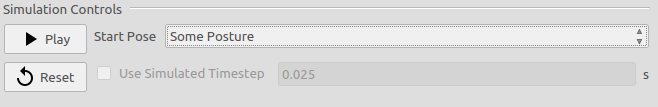
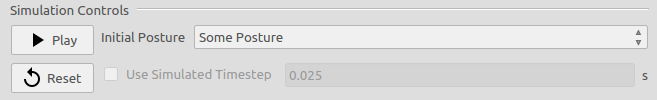
:memo: Documentation of sorts

diff --git a/README.md b/README.md
@@ -1,0 +1,50 @@
+# Giskard IDE
+
+This repository contains an RVIZ panel that aims to aid the development and testing of [giskard](https://github.com/SemRoCo/giskard_core) motion controllers.
+
+## Using the panel
+
+![Image of the RVIZ panel](https://github.com/ARoefer/giskard_ide/blob/master/docs/img/simpanel.png "Giskard IDE Panel")
+
+### Scenarios
+
+![Image of the scenario tab](https://github.com/ARoefer/giskard_ide/blob/master/docs/img/scenario-tab.png "Scenario Tab")
+
+The workspaces of the IDE are organized in *scenarios*. The scenario tab allows the user to select a name and a location for the current environment to be saved to, or load a scenario from a file. Also a URDF file can be specified, which is automatically loaded and displayed when the scenario is loaded. When the RVIZ view configuration is saved, the scenario is also automatically saved. This is done either to the specified file, or in the *~/.rviz/* folder.
+The scenario tab also displays the current topics used for receiving updates about the robot state and 
+
+### Postures
+
+![Image of the posture tab](https://github.com/ARoefer/giskard_ide/blob/master/docs/img/posture-tab.png "Posture Tab")
+
+Scenarios can contain postures for the robot. These are displayed in the posture tab. These postures can be used as starting point for the execution of controllers.
+The tab contains options for adding the robot's current posture to the library, adding an empty posture, to set apply the selected posture to the robot, or to remove it from the library. When adding the current posture of the robot, only the joints controlled by the current controller are included.
+On the right hand side of the panel, the postures are listed and can be edited manually. However this is limited [Issue #1](https://github.com/ARoefer/giskard_ide/issues/1)
+
+### Controllers
+
+![Image of the controller tab](https://github.com/ARoefer/giskard_ide/blob/master/docs/img/controller-tab.png "Controller Tab")
+
+The controller tab allows the user to select a controller to be used in the scenario. The tab displays the joints being controlled by the loaded controller, as well as an assignment for it's other inputs. The assignments can currently be either constant or dynamic. The dynamic versions are currently always positions, rotations or transforms of TF-frames. More options are planned: [Issue #3](https://github.com/ARoefer/giskard_ide/issues/3)
+As this tab can currently not make any changes to the controller, the save button is without function.
+
+### Scenes
+
+![Image of the scene tab](https://github.com/ARoefer/giskard_ide/blob/master/docs/img/scene-tab.png "Scene Tab")
+
+The *scene* of a scenario contains additional objects that can be used for input assignments. These objects are published as interactive markers. An object always has a name, a parent frame, a visual component and transformation to it's parent frame. These can be edited by selecting the object either in the RVIZ viewport, or in the list on the left side of the panel and then adjusting the values on the right side accordingly.
+
+
+### Running a Controller
+
+![Image of the simulation controls](https://github.com/ARoefer/giskard_ide/blob/master/docs/img/simcontrols.png "Simulation Controls")
+
+Once the controller is loaded and the inputs are specified, the execution of the controller can be started by clicking the *Play* button at the bottom of the IDE's panel. The execution can be paused by clicking that button a second time. To reset the robot to it's original posture, the *Reset* button can be clicked. The posture is being specified by the combo box labeled *Initial Posture*.
+
+### Reload Behavior
+
+The panel automatically reloads a controller when the file is changed on disk. If the previous controller was being executed, the robot is reset to the initial posture and the execution continues. 
+
+# About The Code
+
+The panel is structured as a model-view system. All UI components transmit their updates to the `IScenario` interface. The implementation of this interface contains all the application's logic. The state of the application is saved in the `SScenarioContext` class.
